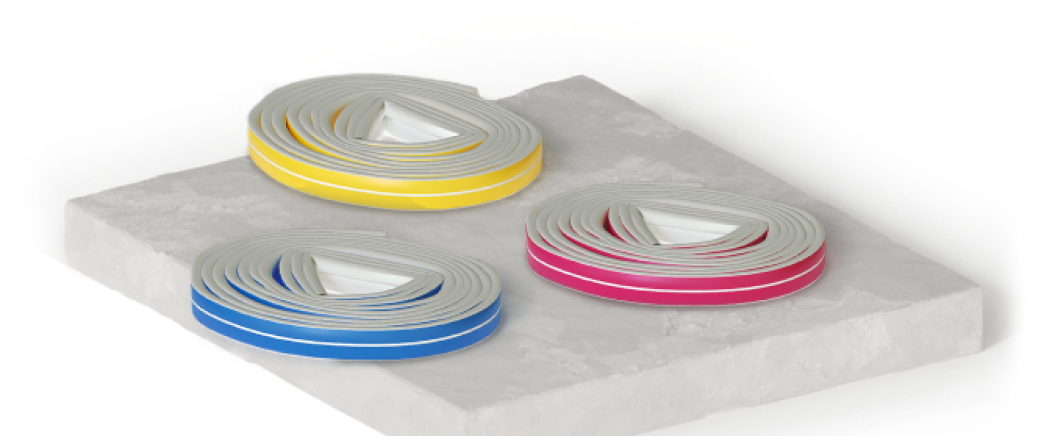
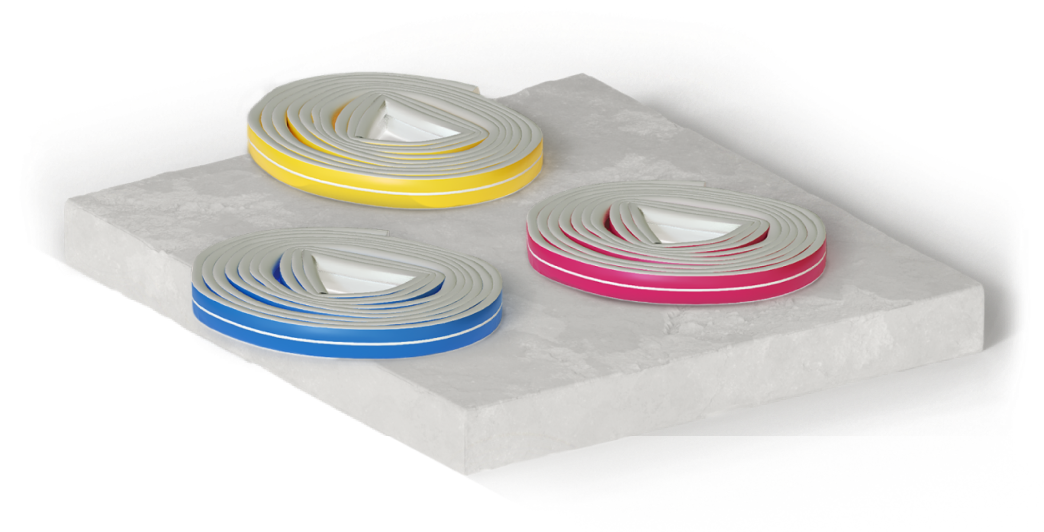
[FIX] catalog image

diff --git a/docs/catalog-1.html b/docs/catalog-1.html
@@ -372,7 +372,7 @@
             <div class="nextCat content paralax-box">
               <div class="section-name">следующая категория</div>
               <div class="nextCat-img">
-                <div class="paralax-item"><img src="images/nextCat.png" alt="" height="500"></div>
+                <div class="paralax-item"><img src="images/catalog-head-4.png" alt="" height="300"></div>
               </div>
               <div class="section-title nextCat-title">Монтажные пены
                 <div class="nextCat-link"><a class="main-link" href="">

diff --git a/docs/catalog-2.html b/docs/catalog-2.html
@@ -363,7 +363,7 @@
             <div class="nextCat content paralax-box">
               <div class="section-name">следующая категория</div>
               <div class="nextCat-img">
-                <div class="paralax-item"><img src="images/nextCat.png" alt="" height="500"></div>
+                <div class="paralax-item"><img src="images/catalog-head-4.png" alt="" height="300"></div>
               </div>
               <div class="section-title nextCat-title">Монтажные пены
                 <div class="nextCat-link"><a class="main-link" href="">

diff --git a/docs/catalog-3.html b/docs/catalog-3.html
@@ -390,7 +390,7 @@
             <div class="nextCat content paralax-box">
               <div class="section-name">следующая категория</div>
               <div class="nextCat-img">
-                <div class="paralax-item"><img src="images/nextCat.png" alt="" height="500"></div>
+                <div class="paralax-item"><img src="images/catalog-head-4.png" alt="" height="300"></div>
               </div>
               <div class="section-title nextCat-title">Монтажные пены
                 <div class="nextCat-link"><a class="main-link" href="">

diff --git a/docs/catalog-4.html b/docs/catalog-4.html
@@ -341,7 +341,7 @@
             <div class="nextCat content paralax-box">
               <div class="section-name">следующая категория</div>
               <div class="nextCat-img">
-                <div class="paralax-item"><img src="images/nextCat.png" alt="" height="500"></div>
+                <div class="paralax-item"><img src="images/catalog-head-4.png" alt="" height="300"></div>
               </div>
               <div class="section-title nextCat-title">Монтажные пены
                 <div class="nextCat-link"><a class="main-link" href="">
